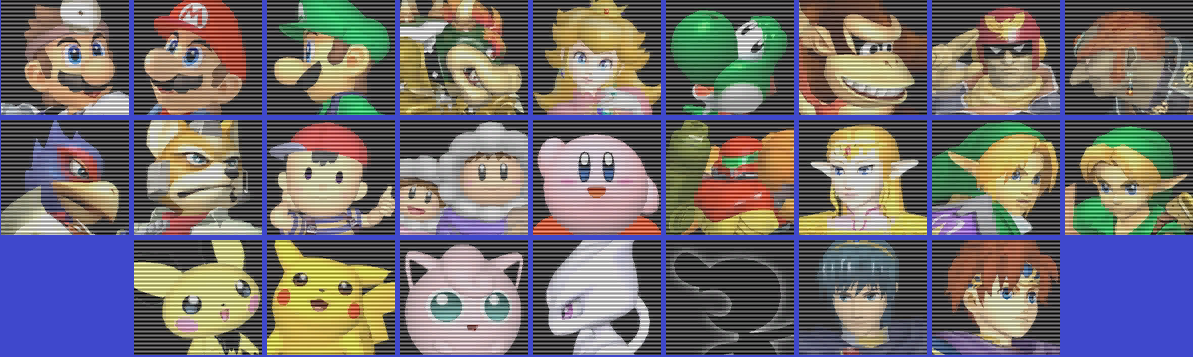
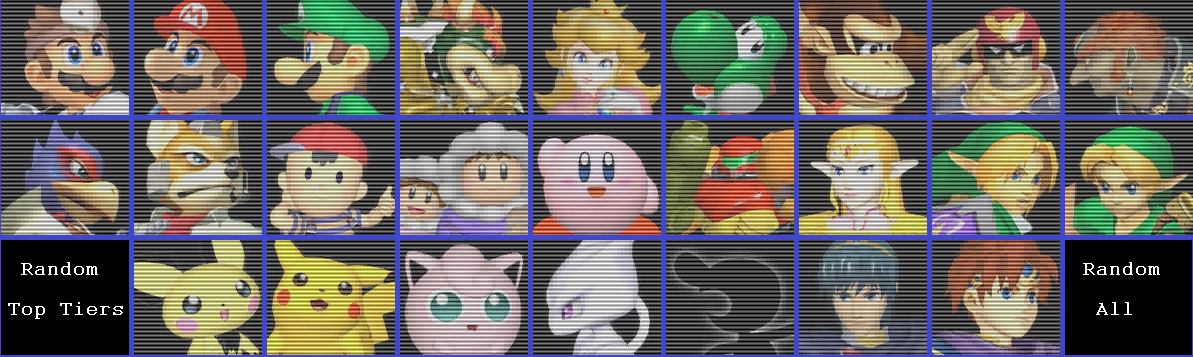
Overall repo cleanup. Renamed css2 to css, removed css and ssbm as they are no longer used.

Changed region(s): [[0.8684, 0.6471, 1.0, 1.0], [0.0, 0.6471, 0.1241, 1.0]]

diff --git a/ssbmrandom.html b/ssbmrandom.html
@@ -15,7 +15,7 @@
 	<h2 align="middle">Choose Your Characters</h2>
 	<h1 id="chosenCharacter"><br></h1>
 	<div style="display: flex; justify-content: center;">
-		<img id="css" align="middle" src="css2.png" style="width:1193px;height:357px" alt="Melee CSS" usemap="#melee">
+		<img id="css" align="middle" src="css.png" style="width:1193px;height:357px" alt="Melee CSS" usemap="#melee">
 			<map name="melee">
 				<area alt="Dr Mario" onclick="update(alt)" shape="rect" coords="0,0,129,115">
 				<area alt="Mario" onclick="update(alt)" shape="rect" coords="134,0,262,115">
